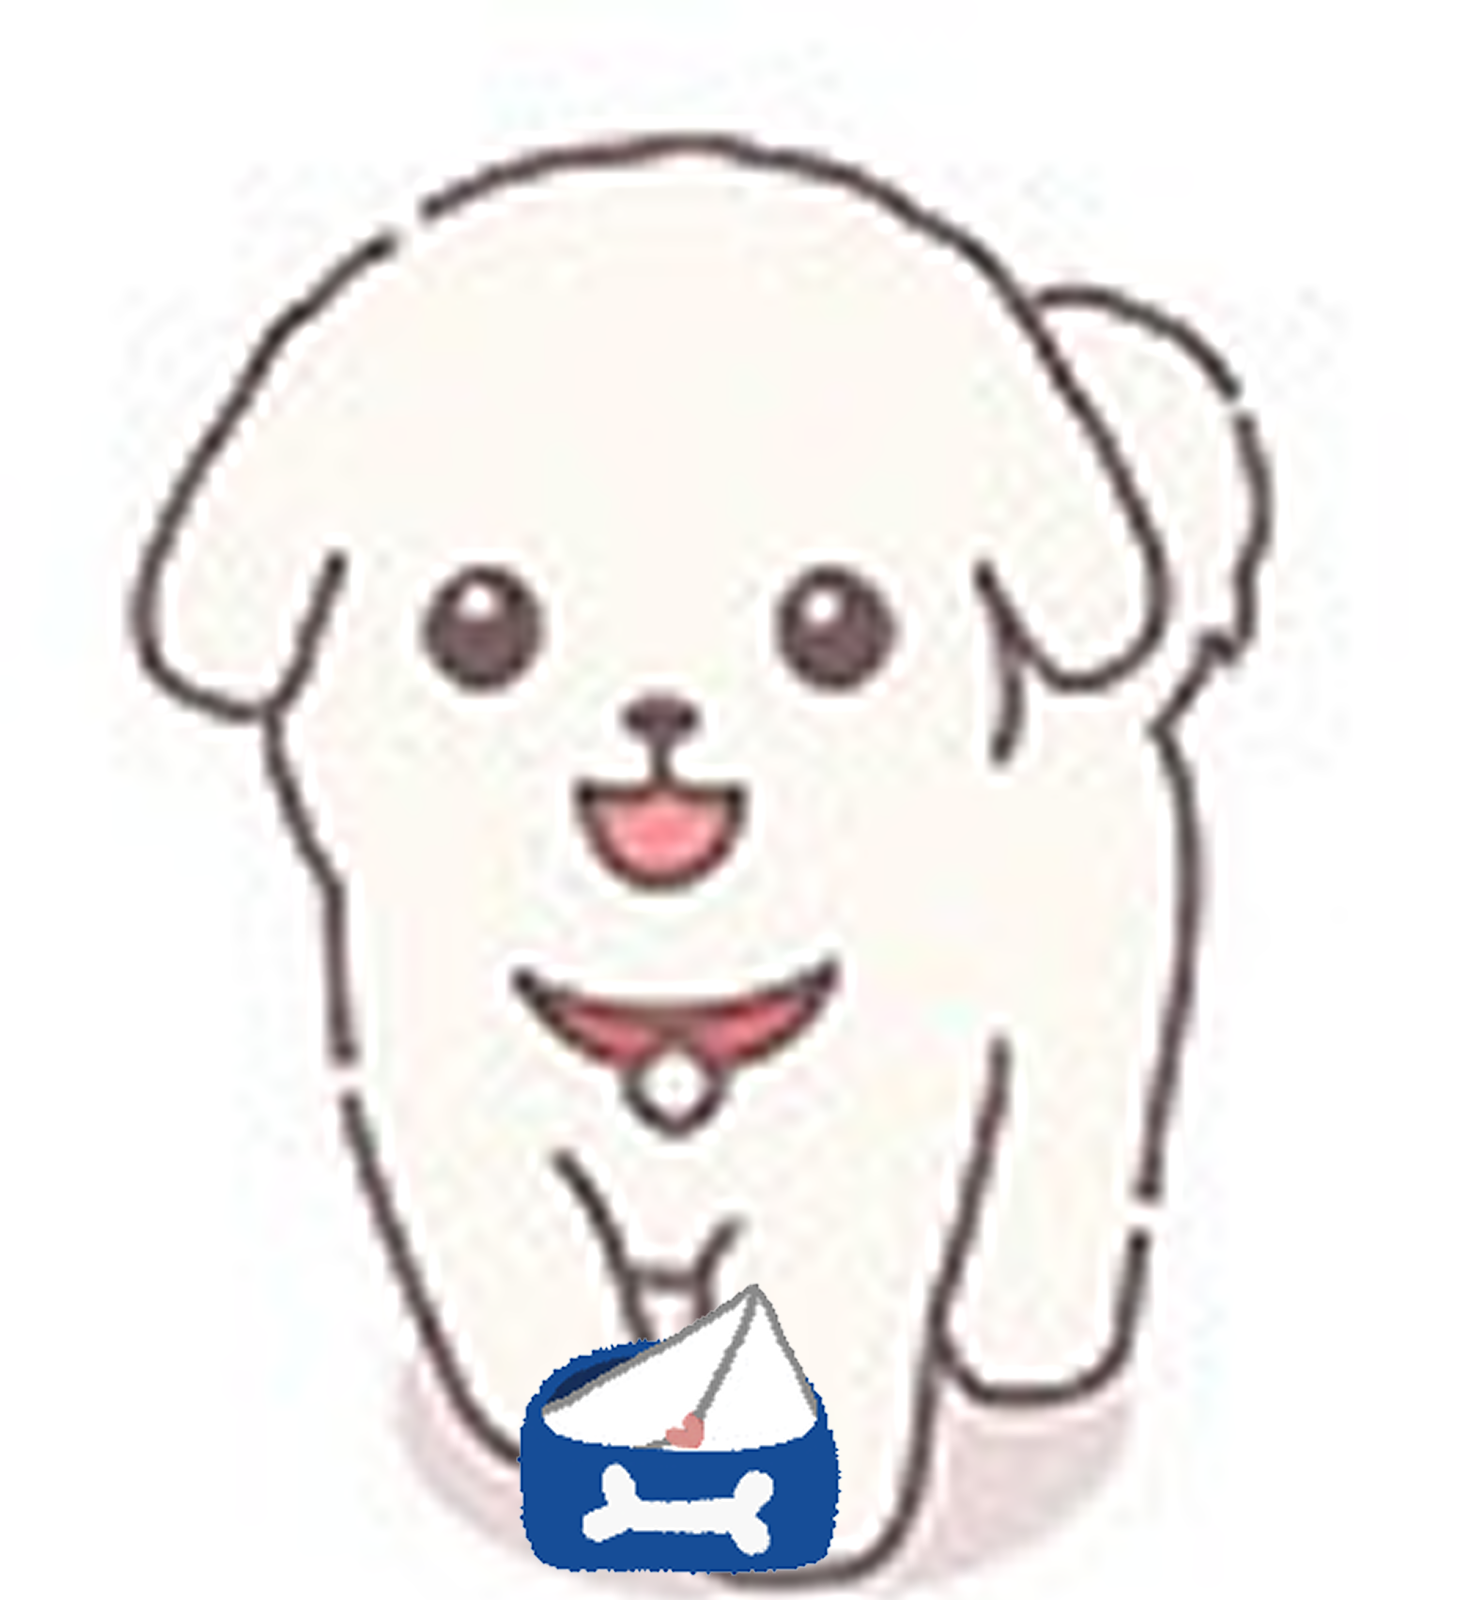
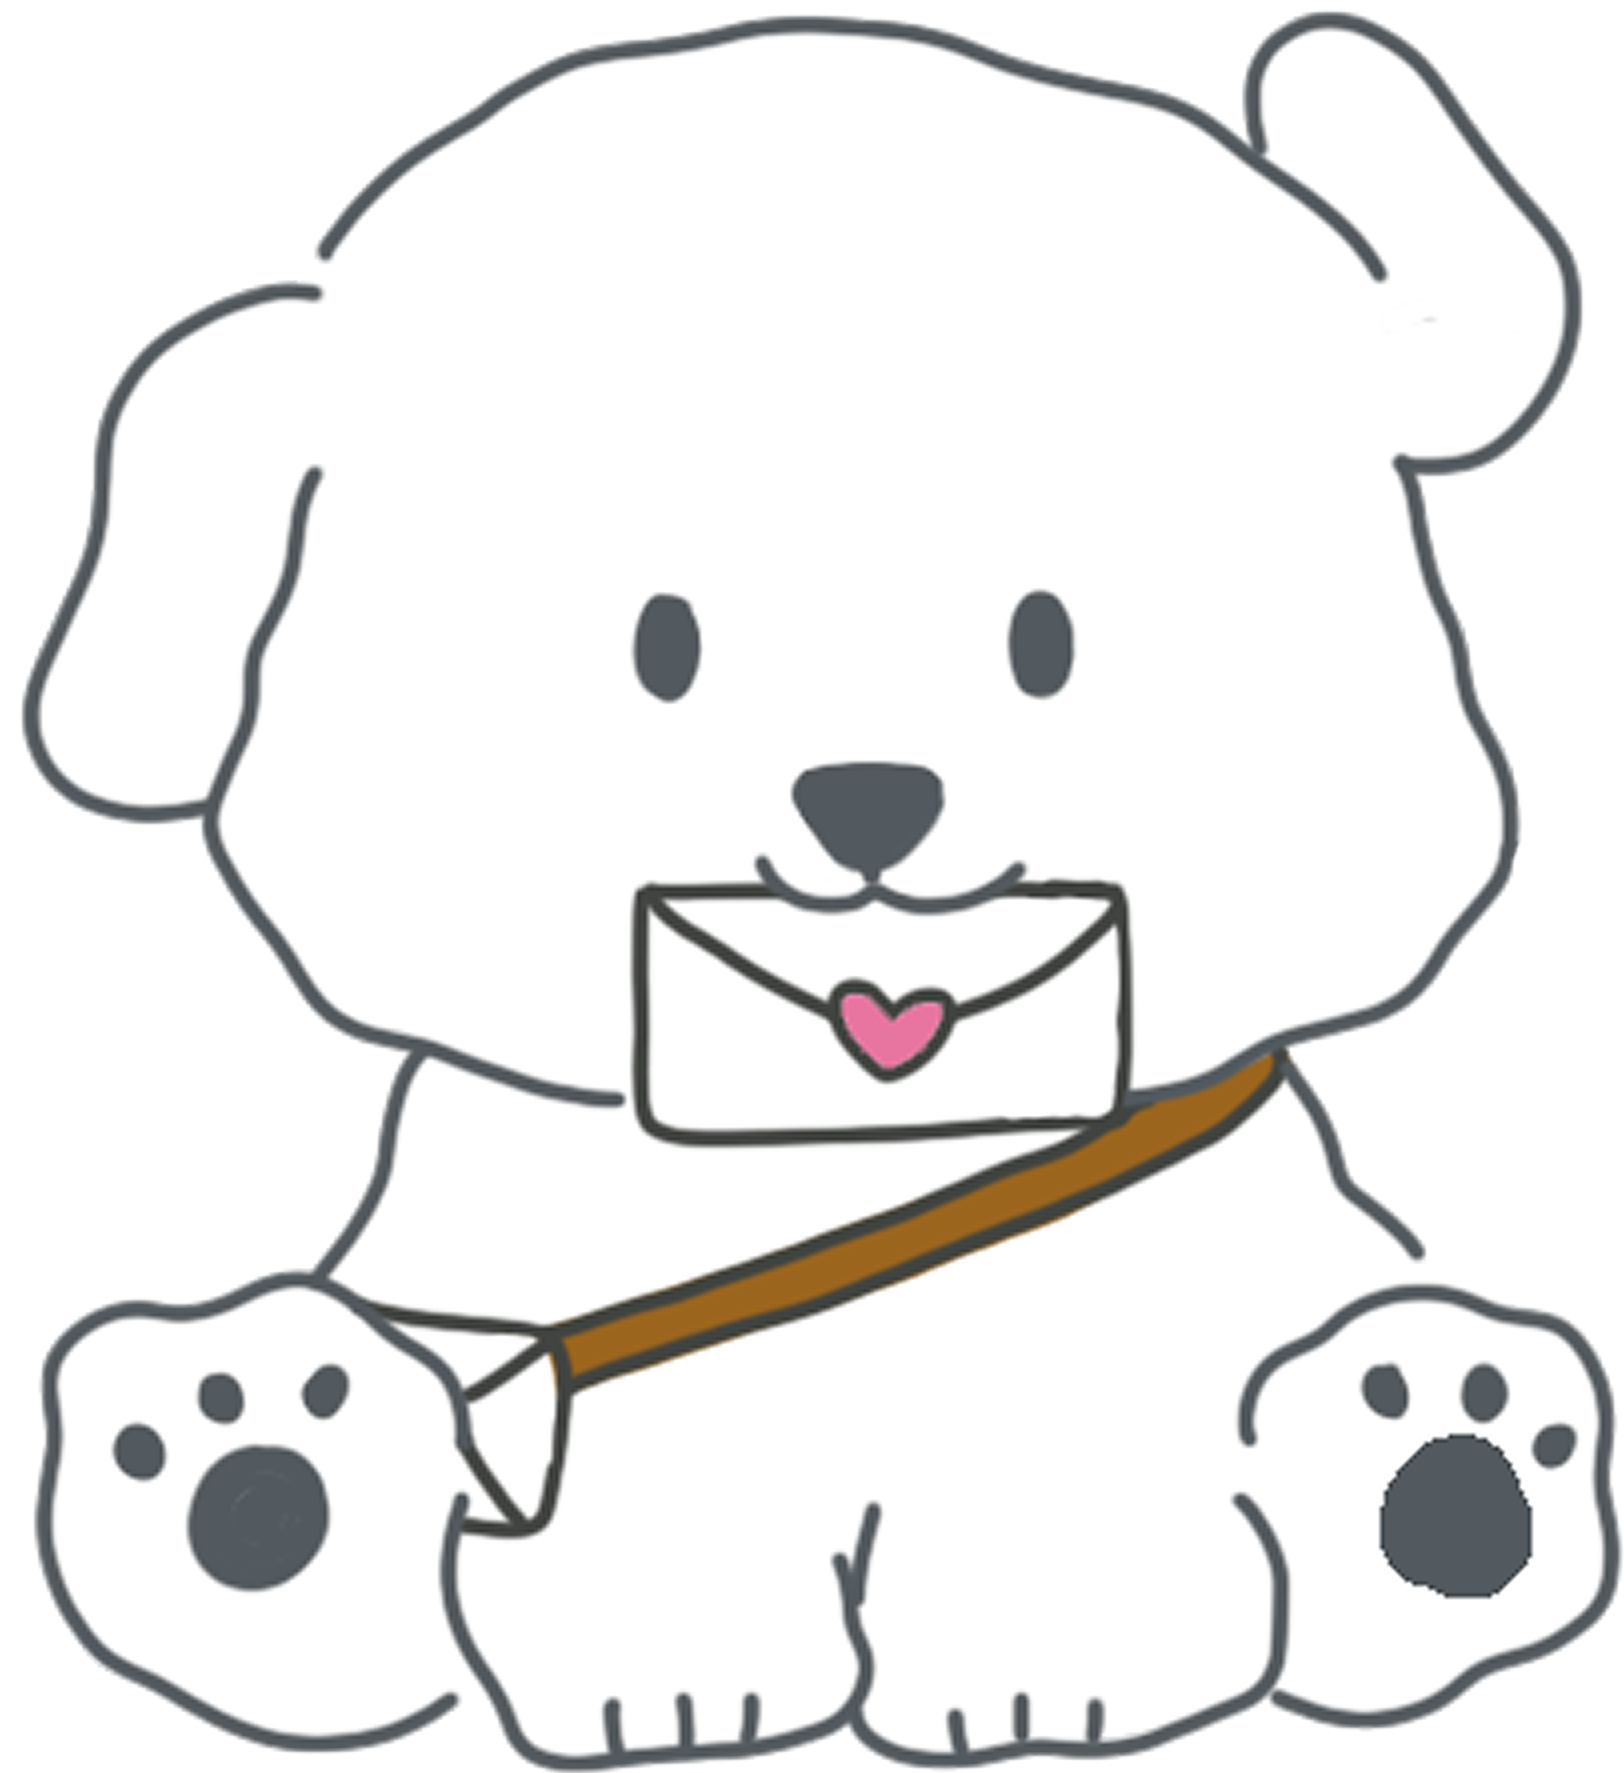
[fetch]강아지 이미지 변경

diff --git a/src/app/main/_components/TodayQuestion.tsx b/src/app/main/_components/TodayQuestion.tsx
@@ -57,15 +57,15 @@ export default function TodayQuestion({
   }, [link, router]);
 
   return (
-    <div className="relative w-full p-6 mx-4">
+    <div className="relative w-full p-4 mx-4">
       <div className="w-full p-4 mb-6 text-center bg-yellow-50 rounded-3xl">
         <h2
-          className="mb-3 text-2xl font-bold leading-relaxed"
+          className="mb-3 font-bold leading-relaxed"
           style={{ color: "#F5BC25" }}
         >
           {todayQuestion.title}
         </h2>
-        <p className="p-4 mb-3 text-lg font-medium leading-relaxed text-gray-800 bg-white/80 rounded-3xl">
+        <p className="p-4 mb-3 font-medium leading-relaxed text-gray-800 bg-white/80 rounded-3xl">
           {todayQuestion.question}
         </p>
       </div>

diff --git a/src/app/components/Footer.tsx b/src/app/components/Footer.tsx
@@ -24,7 +24,7 @@ export default function Footer() {
   const router = useRouter();
   return (
     <div
-      className="flex flex-row items-center justify-between w-full px-4 py-6 md:px-0"
+      className="flex flex-row items-center justify-between w-full px-4 py-6 pt-10 md:px-0 "
       role="navigation"
       aria-label="footer navigation"
     >

diff --git a/src/app/main/_components/Dog.tsx b/src/app/main/_components/Dog.tsx
@@ -15,7 +15,7 @@ export default function Dog({ isDraft }: { isDraft: boolean }) {
         />
       ) : (
         <Image
-          src="/image/dog_illus/sitting_dog.png"
+          src="/image/dog_illus/main_dog.png"
           alt="dog"
           width={150}
           height={150}
